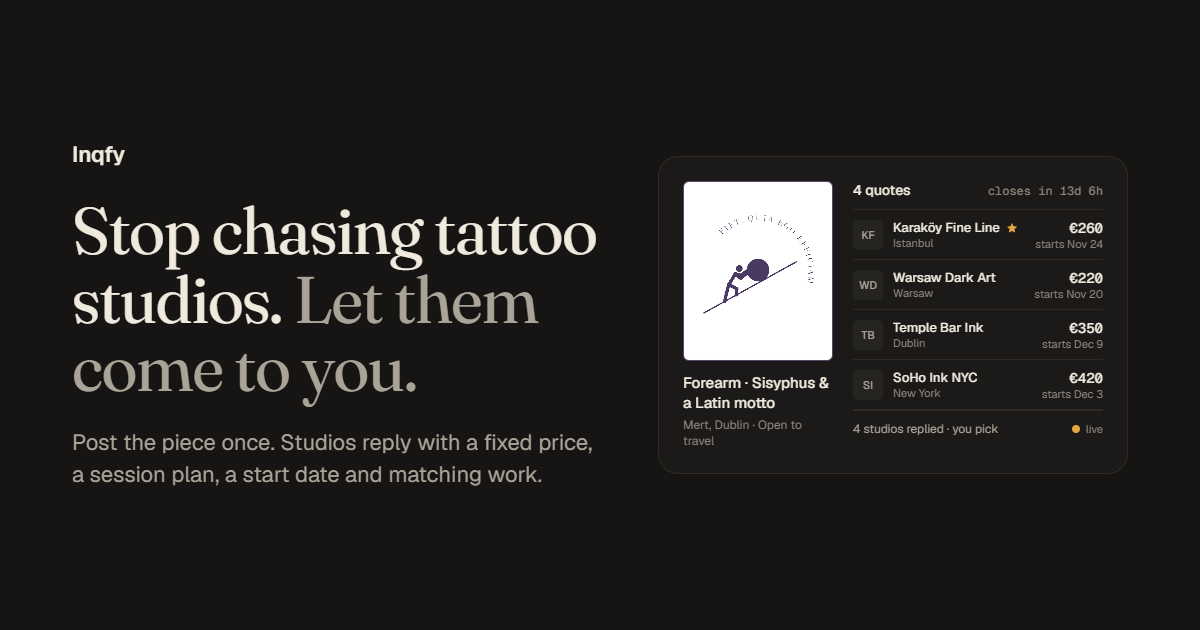
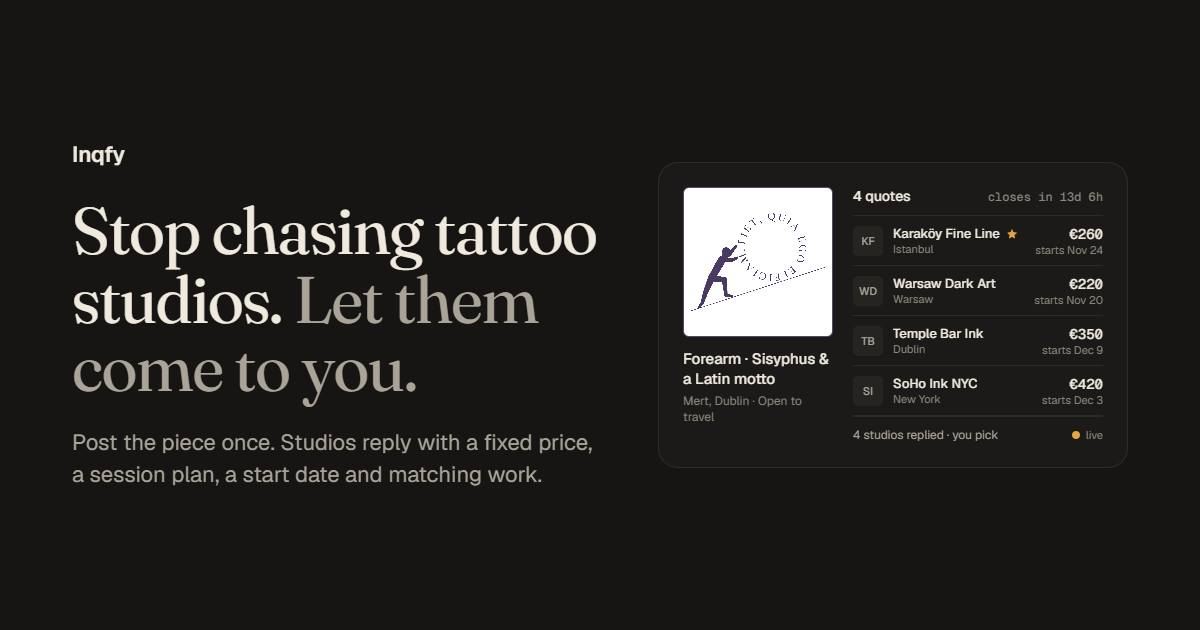
Use the owner's real concept and style reference; requests can carry reference images
The concept is now his actual drawing (the ring of words is the boulder) and
the brief points at a style reference photo. Requests get an optional
referenceImageUrls list: shown on the request page and in the quote modal,
addable on the create form (and pre-fillable via ?refs=).

Generated with [Devin](https://devin.ai)

diff --git a/src/app/create/page.tsx b/src/app/create/page.tsx
@@ -1,7 +1,7 @@
 "use client";
 
 import { AnimatePresence, motion } from "framer-motion";
-import { ArrowRight, Globe2, MapPin, Plane, Sparkles, Wand2 } from "lucide-react";
+import { ArrowRight, Globe2, MapPin, Plane, Sparkles, Wand2, X } from "lucide-react";
 import { useRouter, useSearchParams } from "next/navigation";
 import { Suspense, useMemo, useState } from "react";
 import { ImageToggle, StencilImage } from "@/components/ImageToggle";
@@ -30,6 +30,14 @@ function hash(s: string) {
   return h;
 }
 
+function parseReferenceUrls(value: string | null) {
+  return (value ?? "")
+    .split(",")
+    .map((url) => url.trim())
+    .filter((url) => url.startsWith("/img/") || url.startsWith("https://"))
+    .slice(0, 3);
+}
+
 export default function CreatePage() {
   return (
     <LiveRoleGate role="client">
@@ -48,6 +56,7 @@ function CreateContent() {
   const placementParam = searchParams.get("placement");
   const travelParam = searchParams.get("travel");
   const windowParam = searchParams.get("window");
+  const refsParam = searchParams.get("refs");
   const initialStyle =
     queryStyle && STYLES.some((candidate) => candidate === queryStyle)
       ? queryStyle
@@ -70,15 +79,17 @@ function CreateContent() {
     windowParam === "3" || windowParam === "7" || windowParam === "14"
       ? Number(windowParam)
       : 7;
+  const initialReferenceUrls = parseReferenceUrls(refsParam);
 
   return (
     <CreateForm
-      key={[queryStyle, imageParam, promptParam, placementParam, travelParam, windowParam].map((value) => value ?? "").join("|")}
+      key={[queryStyle, imageParam, promptParam, placementParam, travelParam, windowParam, refsParam].map((value) => value ?? "").join("|")}
       initialStyle={initialStyle}
       initialPrompt={initialPrompt}
       initialPlacement={initialPlacement}
       initialTravelMode={initialTravelMode}
       initialWindowDays={initialWindowDays}
+      initialReferenceUrls={initialReferenceUrls}
       imageParam={imageParam}
     />
   );
@@ -90,6 +101,7 @@ function CreateForm({
   initialPlacement,
   initialTravelMode,
   initialWindowDays,
+  initialReferenceUrls,
   imageParam,
 }: {
   initialStyle: string;
@@ -97,6 +109,7 @@ function CreateForm({
   initialPlacement: string;
   initialTravelMode: TravelMode;
   initialWindowDays: number;
+  initialReferenceUrls: string[];
   imageParam: string | null;
 }) {
   const router = useRouter();
@@ -113,6 +126,8 @@ function CreateForm({
   const [travelMode, setTravelMode] = useState<TravelMode>(initialTravelMode);
   const [destination, setDestination] = useState("Thailand - Nov 2026");
   const [windowDays, setWindowDays] = useState(initialWindowDays);
+  const [referenceUrls, setReferenceUrls] = useState(initialReferenceUrls);
+  const [referenceInput, setReferenceInput] = useState("");
   const [launching, setLaunching] = useState(false);
   const [error, setError] = useState<string | null>(null);
 
@@ -122,6 +137,13 @@ function CreateForm({
     const short = p.length > 48 ? p.slice(0, 48).replace(/\s+\S*$/, "") + "…" : p;
     return `${placement} ${short.charAt(0).toUpperCase() + short.slice(1)}`;
   }, [prompt, placement]);
+
+  function addReference() {
+    const [url] = parseReferenceUrls(referenceInput);
+    if (!url || referenceUrls.length >= 3 || referenceUrls.includes(url)) return;
+    setReferenceUrls((current) => [...current, url]);
+    setReferenceInput("");
+  }
 
   async function generate() {
     if (!prompt.trim()) return;
@@ -156,6 +178,7 @@ function CreateForm({
         size: sizeFor(placement),
         conceptImageUrl: result.concept,
         stencilImageUrl: result.stencil,
+        ...(referenceUrls.length ? { referenceImageUrls: referenceUrls } : {}),
         travelMode,
         targetDestination: travelMode === "specific_destination" ? destination : "",
         closesAt: Date.now() + windowDays * DAY_MS,
@@ -296,6 +319,43 @@ function CreateForm({
                         placeholder='e.g. "Thailand - Nov 2026"'
                         className="mt-3 h-11 w-full rounded-[10px] border border-line bg-raised px-4 text-[15px] text-fg outline-none placeholder:text-fg-3 focus:border-fg-3 focus-visible:outline-2 focus-visible:outline-offset-2 focus-visible:outline-accent"
                       />
+                    )}
+                  </div>
+
+                  <div>
+                    <div className="mb-2 text-sm font-medium text-fg">Style references (optional)</div>
+                    <div className="flex gap-2">
+                      <input
+                        value={referenceInput}
+                        onChange={(event) => setReferenceInput(event.target.value)}
+                        onKeyDown={(event) => {
+                          if (event.key === "Enter") {
+                            event.preventDefault();
+                            addReference();
+                          }
+                        }}
+                        placeholder="Paste an image link"
+                        className="h-10 min-w-0 flex-1 rounded-[10px] border border-line bg-raised px-3 text-sm text-fg outline-none placeholder:text-fg-3 focus:border-fg-3 focus-visible:outline-2 focus-visible:outline-offset-2 focus-visible:outline-accent"
+                      />
+                      <Button variant="secondary" size="sm" onClick={addReference} disabled={referenceUrls.length >= 3}>Add</Button>
+                    </div>
+                    {referenceUrls.length > 0 && (
+                      <div className="mt-3 flex flex-wrap gap-2">
+                        {referenceUrls.map((url) => (
+                          <div key={url} className="relative">
+                            {/* eslint-disable-next-line @next/next/no-img-element */}
+                            <img src={url} alt="" className="h-16 w-16 rounded-md border border-line object-cover" />
+                            <button
+                              type="button"
+                              aria-label="Remove style reference"
+                              onClick={() => setReferenceUrls((current) => current.filter((item) => item !== url))}
+                              className="absolute -right-1.5 -top-1.5 rounded-md border border-line bg-card p-0.5 text-fg-2 hover:text-fg"
+                            >
+                              <X className="h-3.5 w-3.5" />
+                            </button>
+                          </div>
+                        ))}
+                      </div>
                     )}
                   </div>
 

diff --git a/src/app/requests/[id]/RequestView.tsx b/src/app/requests/[id]/RequestView.tsx
@@ -71,6 +71,7 @@ export function RequestView() {
     );
   const canAccept = !IS_LIVE || persona.id === request.clientId;
   const acceptingQuotes = isAcceptingQuotes(request, now);
+  const referenceImages = request.referenceImageUrls ?? [];
   const shortlisted = new Set(request.shortlistedBidIds ?? []);
   const hidden = new Set(request.hiddenBidIds ?? []);
   const ranked = canAccept
@@ -135,6 +136,24 @@ export function RequestView() {
             </div>
             <h1 className="mt-3 font-display text-2xl sm:text-3xl">{request.title}</h1>
             <p className="mt-2 text-fg-2">{request.prompt}</p>
+            {referenceImages.length > 0 && (
+              <div className="mt-4">
+                <div className="mb-2 text-xs text-fg-3">Style references</div>
+                <div className="flex flex-wrap gap-2">
+                  {referenceImages.map((url, index) => (
+                    <button
+                      key={url}
+                      type="button"
+                      onClick={() => setLb({ urls: referenceImages, index })}
+                      className="h-20 w-20 overflow-hidden rounded-md border border-line"
+                    >
+                      {/* eslint-disable-next-line @next/next/no-img-element */}
+                      <img src={url} alt="" className="h-full w-full object-cover" />
+                    </button>
+                  ))}
+                </div>
+              </div>
+            )}
           </div>
 
           <div className="flex flex-wrap items-center gap-x-4 gap-y-2 text-sm text-fg-2">

diff --git a/src/lib/seed.ts b/src/lib/seed.ts
@@ -164,12 +164,13 @@ export const SEED_REQUESTS: TattooRequest[] = [
     clientFlag: "🇮🇪",
     title: "Sisyphus and the boulder, with a Latin motto",
     prompt:
-      "Sisyphus pushing the boulder up a slope as a small solid silhouette, with the Latin line “Fiet, quia ego efficiam” (“It will be done, because I will make it so”) set in a ring around the scene — the wording is open to suggestions. Black ink only. I want a sketch / etching feel: loose engraving-like lines, a little unfinished, closer to a pen drawing on paper than a flat graphic. Lettering fine but legible.",
+      "Sisyphus pushing the boulder up a slope — except the boulder is the sentence itself: “Fiet, quia ego efficiam” (“It will be done, because I will make it so”) set as a ring of letters. The figure is a solid black silhouette; the wording is open to suggestions. Style like the attached reference: sketchy realism with loose brush strokes and ink splatter, soft grey wash on the figure, the lettering small and hand-cut. Black and grey only.",
     style: "Fine Line",
     bodyPart: "Forearm",
     size: "Medium",
     conceptImageUrl: IMG.sisyphus,
     stencilImageUrl: IMG.sisyphus,
+    referenceImageUrls: [IMG.refMeaCulpa],
     travelMode: "open_worldwide",
     targetDestination: "",
     closesAt: now + 13 * 24 * h + 6 * h,

diff --git a/src/components/HeroQuoteStack.tsx b/src/components/HeroQuoteStack.tsx
@@ -34,9 +34,9 @@ export function HeroQuoteStack() {
         className="grid gap-5 rounded-2xl border border-line bg-card p-5 sm:grid-cols-[200px_1fr]"
       >
         <div className="grid grid-cols-[96px_1fr] items-start gap-4 sm:block">
-          <div className="h-[116px] w-24 overflow-hidden rounded-md border border-line bg-stencil sm:h-[240px] sm:w-[200px]">
+          <div className="h-24 w-24 overflow-hidden rounded-md border border-line bg-stencil sm:h-[200px] sm:w-[200px]">
             {/* eslint-disable-next-line @next/next/no-img-element */}
-            <img src={request.conceptImageUrl} alt="Stencil of Sisyphus pushing a boulder, ringed by a Latin motto" className="stencil h-full w-full object-cover" />
+            <img src={request.conceptImageUrl} alt="Stencil: Sisyphus pushing a ring of words up a slope" className="stencil h-full w-full object-cover" />
           </div>
           <div>
             <div className="text-[15px] font-medium leading-5 sm:mt-3">Forearm · Sisyphus &amp; a Latin motto</div>

diff --git a/src/components/BidModal.tsx b/src/components/BidModal.tsx
@@ -168,6 +168,10 @@ function BidForm({
           alt=""
           className="h-16 w-16 rounded-lg object-cover"
         />
+        {request.referenceImageUrls?.map((url) => (
+          // eslint-disable-next-line @next/next/no-img-element
+          <img key={url} src={url} alt="" className="h-12 w-12 rounded-md object-cover" />
+        ))}
         <div className="min-w-0 flex-1">
           <div className="truncate font-medium">{request.title}</div>
           <div className="text-xs text-fg-2">

diff --git a/src/lib/images.ts b/src/lib/images.ts
@@ -5,7 +5,8 @@ const u = (id: string, w = 900) =>
 const l = (name: string) => `/img/${name}.jpg`;
 
 export const IMG = {
-  sisyphus: "/img/sisyphus-fiet.svg",
+  sisyphus: "/img/sisyphus-fiet.png",
+  refMeaCulpa: "/img/ref-mea-culpa.jpg",
   dragonSleeve: l("sleeve-flickr-stiller-beobachter"),
   koi: l("close-up-phoenix-full-sleeve-tattoo-by-maaika"),
   geometric: l("dom-carter-geometric-tattoo"),

diff --git a/src/lib/types.ts b/src/lib/types.ts
@@ -40,6 +40,7 @@ export interface TattooRequest {
   size: string;
   conceptImageUrl: string;
   stencilImageUrl: string;
+  referenceImageUrls?: string[];
   travelMode: TravelMode;
   targetDestination: string;
   closesAt?: number;

diff --git a/public/img/CREDITS.md b/public/img/CREDITS.md
@@ -5,4 +5,6 @@ Tattoo photography in this folder is from Wikimedia Commons under free licenses
 its name; see https://commons.wikimedia.org/wiki/File:<Original_Title> for the author
 and exact license. Remaining demo images are hotlinked from Unsplash.
 
-`sisyphus-fiet.svg` — original line drawing made for Inqfy (concept for the owner's request).
+`sisyphus-fiet.png` — the owner's own concept drawing for his request.
+
+`ref-mea-culpa.jpg` — style reference photo supplied by the owner for his request (tattoo by an unknown artist; shown only as a reference).
